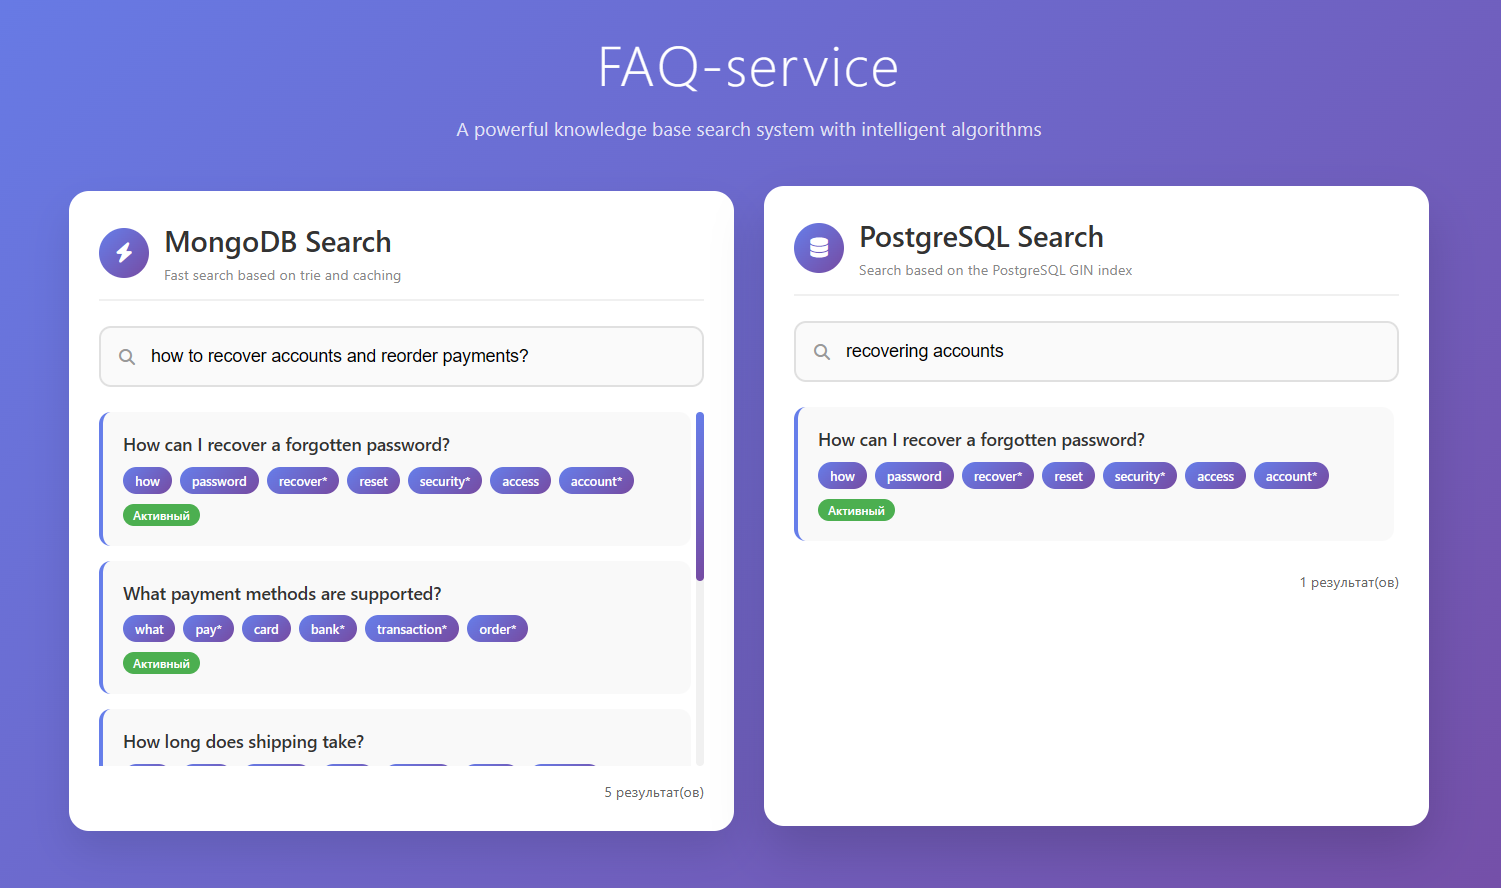
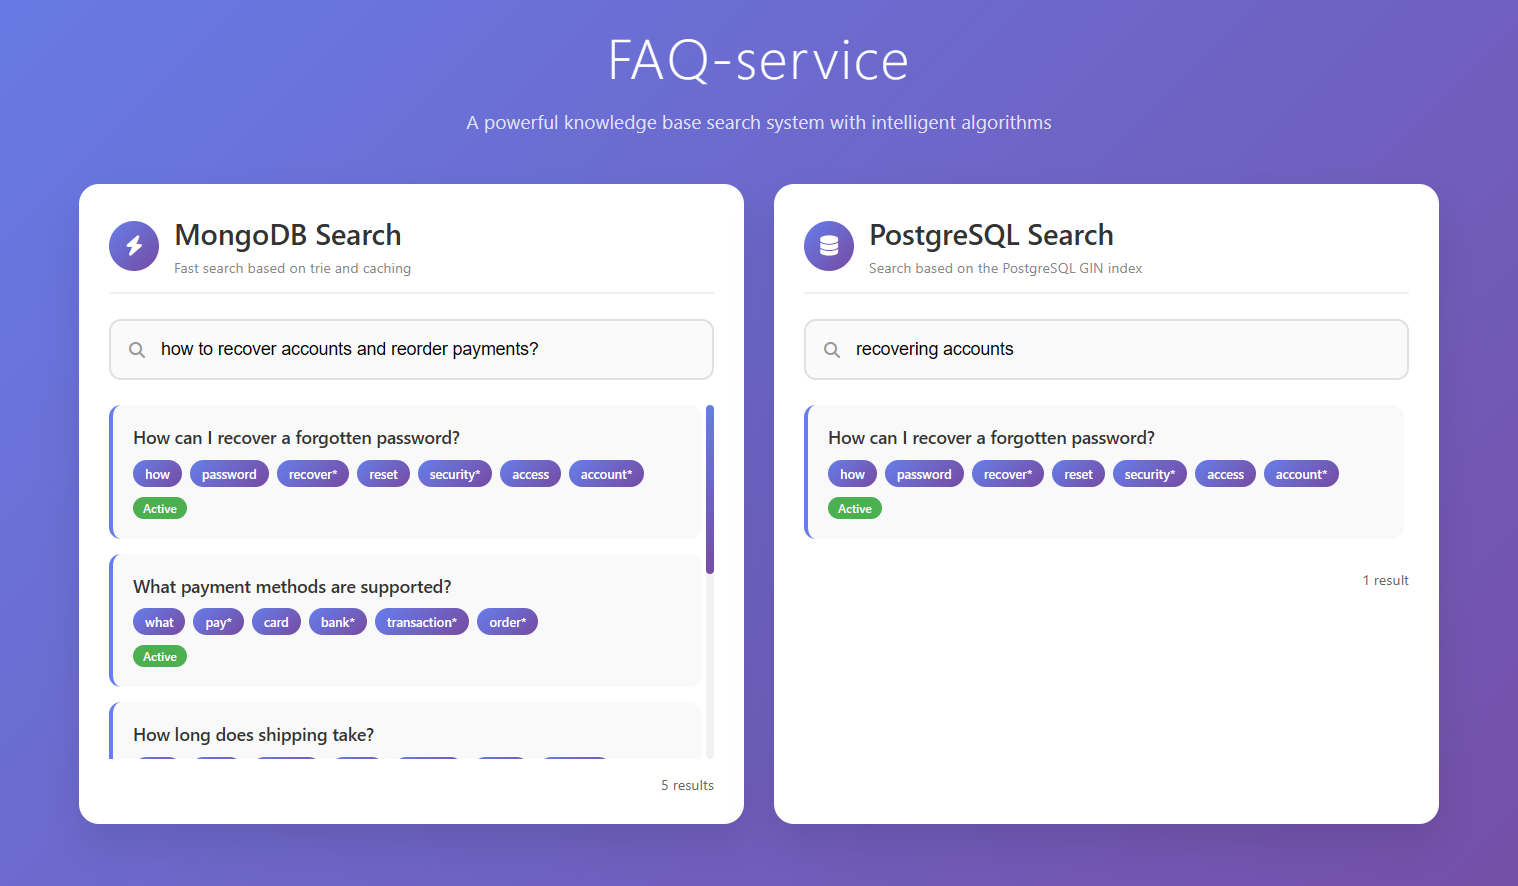
fix: update script.js

diff --git a/src/main/resources/static/js/script.js b/src/main/resources/static/js/script.js
@@ -25,7 +25,7 @@ function handlePgSearch(event) {
         return;
     }
 
-    pgResults.innerHTML = '<div class="loading"><i class="fas fa-spinner fa-spin"></i> Поиск...</div>';
+    pgResults.innerHTML = '<div class="loading"><i class="fas fa-spinner fa-spin"></i> Searching...</div>';
 
     pgSearchTimer = setTimeout(() => {
         searchFaq('pg-search', query, pgResults, pgStats);
@@ -41,7 +41,7 @@ function handleMongoSearch(event) {
         return;
     }
 
-    mongoResults.innerHTML = '<div class="loading"><i class="fas fa-spinner fa-spin"></i> Поиск...</div>';
+    mongoResults.innerHTML = '<div class="loading"><i class="fas fa-spinner fa-spin"></i> Searching...</div>';
 
     mongoSearchTimer = setTimeout(() => {
         searchFaq('search', query, mongoResults, mongoStats);
@@ -72,7 +72,7 @@ async function searchFaq(endpoint, query, resultsContainer, statsElement) {
         resultsContainer.innerHTML = `
             <div class="no-results">
                 <i class="fas fa-exclamation-triangle" style="color: #f44336;"></i>
-                <p>Ошибка при выполнении поиска</p>
+                <p>Error while performing search</p>
                 <small>${error.message}</small>
             </div>
         `;
@@ -86,16 +86,16 @@ function displayResults(results, container, statsElement, query) {
         container.innerHTML = `
                     <div class="no-results">
                         <i class="fas fa-search" style="font-size: 2rem; margin-bottom: 15px;"></i>
-                        <p>По запросу "${query}" ничего не найдено</p>
+                        <p>Nothing found for "${query}"</p>
                     </div>
                 `;
-        statsElement.textContent = '0 результатов';
+        statsElement.textContent = '0 results';
         return;
     }
 
     const resultsHtml = results.map((item, index) => `
                 <div class="result-item fade-in" style="animation-delay: ${index * 0.1}s">
-                    <div class="result-question">${escapeHtml(item.question || 'Без названия')}</div>
+                    <div class="result-question">${escapeHtml(item.question || 'Untitled')}</div>
                     ${item.keywords && item.keywords.length > 0 ? `
                         <div class="keywords-container">
                             ${item.keywords.map(keyword => `
@@ -104,20 +104,20 @@ function displayResults(results, container, statsElement, query) {
                         </div>
                     ` : ''}
                     <div class="status-badge ${item.active ? 'status-active' : 'status-inactive'}">
-                        ${item.active ? 'Активный' : 'Неактивный'}
+                        ${item.active ? 'Active' : 'Inactive'}
                     </div>
                 </div>
             `).join('');
 
     container.innerHTML = resultsHtml;
-    statsElement.textContent = `${results.length} результат(ов)`;
+    statsElement.textContent = `${results.length} ${results.length === 1 ? 'result' : 'results'}`;
 }
 
 function clearResults(container, statsElement) {
     container.innerHTML = `
                 <div class="no-results">
                     <i class="fas fa-search" style="font-size: 2rem; margin-bottom: 15px;"></i>
-                    <p>Начните вводить запрос для поиска</p>
+                    <p>Start typing your search query</p>
                 </div>
             `;
     statsElement.textContent = '';
